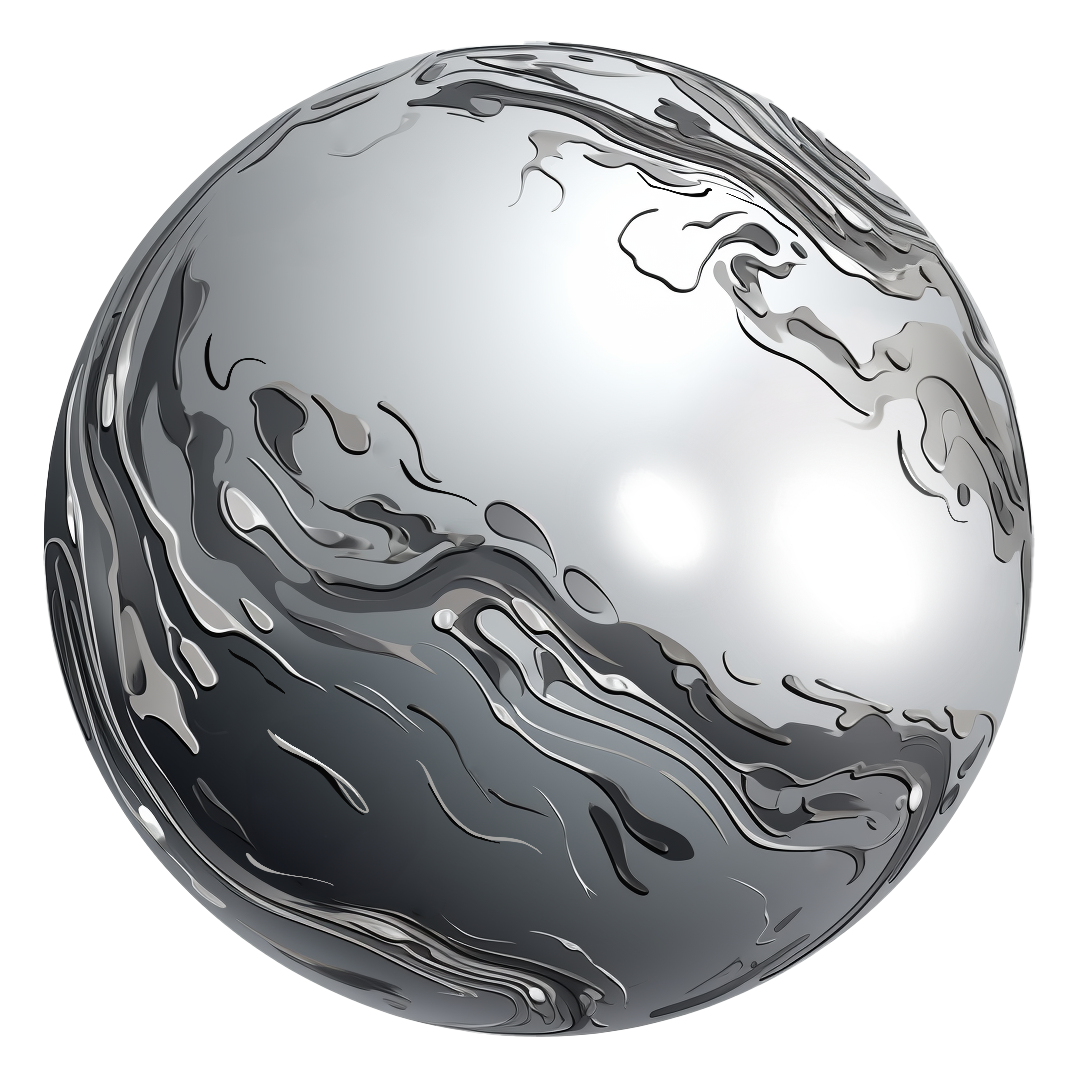
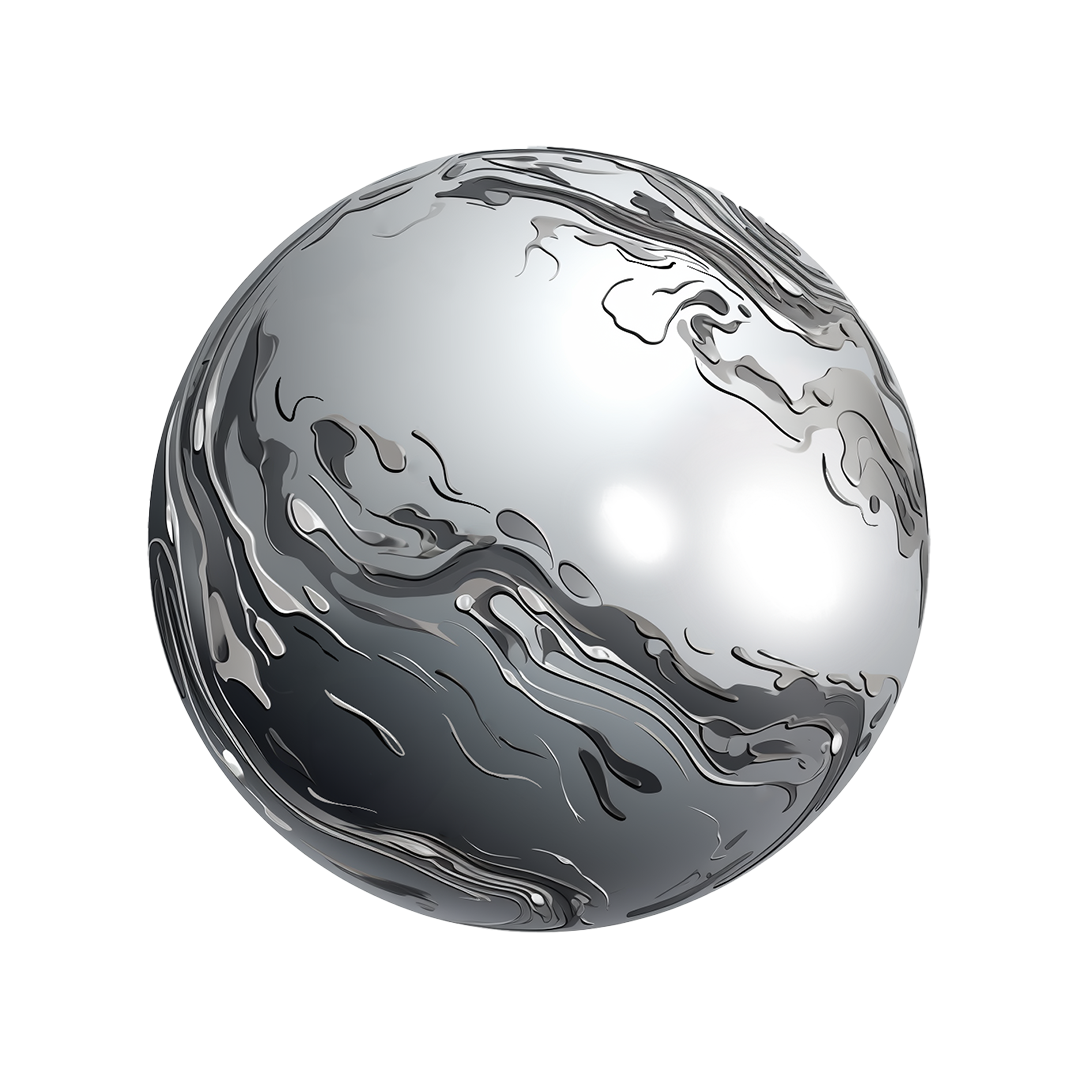
improve planets + cleanup

diff --git a/remotion/EndScene/LandingRocket.tsx b/remotion/EndScene/LandingRocket.tsx
@@ -21,23 +21,23 @@ export const LandingRocket: React.FC<{
 
   const finalOffset = useMemo(() => {
     if (planetType === "Ice") {
-      return 500;
+      return 450;
     }
 
     if (planetType === "Gold") {
-      return 500;
+      return 450;
     }
 
     if (planetType === "Leafy") {
-      return 490;
+      return 450;
     }
 
     if (planetType === "Fire") {
-      return 510;
+      return 450;
     }
 
     if (planetType === "Silver") {
-      return 430;
+      return 450;
     }
 
     return 450;
@@ -52,46 +52,66 @@ export const LandingRocket: React.FC<{
   const height = interpolate(frame, [30, 70], [400, 30]);
   const marginTop = height / 2;
 
+  const shadowTop = interpolate(frame, [0, 50], [190, 0], {
+    extrapolateRight: "clamp",
+  });
+
+  const shadow = interpolate(frame, [0, 50], [0, 50], {
+    extrapolateRight: "clamp",
+  });
+
   return (
-    <AbsoluteFill
-      style={{
-        position: "absolute",
-        alignItems: "center",
-        justifyContent: "center",
-        marginTop: rocketOffset,
-        transform: "scale(0.7)",
-      }}
-    >
+    <>
       <AbsoluteFill
         style={{
-          justifyContent: "center",
-          alignItems: "center",
+          backgroundColor: "rgba(0,0,0,0.4)",
+          height: shadow * 1.5,
+          width: shadow * 6,
+          top: 800 - shadowTop,
+          left: 545 - shadow * 3,
+          borderRadius: "50%",
         }}
-      >
-        <OffthreadVideo
-          style={{
-            width: height,
-            height: 100,
-            objectFit: "fill",
-            transform: `rotate(-90deg)`,
-            marginTop: -500 + marginTop,
-            marginLeft: 20,
-          }}
-          startFrom={110}
-          muted
-          transparent
-          src={getFlame(rocket)}
-        />
-      </AbsoluteFill>
-      <div
+      />
+      <AbsoluteFill
         style={{
-          width: 400,
-          position: "relative",
-          top: -600,
+          position: "absolute",
+          alignItems: "center",
+          justifyContent: "center",
+          marginTop: rocketOffset,
+          transform: "scale(0.7)",
         }}
       >
-        <RocketSide rocket={rocket} />
-      </div>
-    </AbsoluteFill>
+        <AbsoluteFill
+          style={{
+            justifyContent: "center",
+            alignItems: "center",
+          }}
+        >
+          <OffthreadVideo
+            style={{
+              width: height,
+              height: 100,
+              objectFit: "fill",
+              transform: `rotate(-90deg)`,
+              marginTop: -500 + marginTop,
+              marginLeft: 20,
+            }}
+            startFrom={110}
+            muted
+            transparent
+            src={getFlame(rocket)}
+          />
+        </AbsoluteFill>
+        <div
+          style={{
+            width: 400,
+            position: "relative",
+            top: -600,
+          }}
+        >
+          <RocketSide rocket={rocket} />
+        </div>
+      </AbsoluteFill>
+    </>
   );
 };

diff --git a/remotion/Contributions/index.tsx b/remotion/Contributions/index.tsx
@@ -82,7 +82,7 @@ const Dot: React.FC<{
   if (frame < TRANSITION_GLOW) {
     let f = (targetColumn - col) / (COLUMNS / 3);
 
-    f = f < 0 ? 0 : f > 1 ? 1 : f;
+    f = Math.min(...[Math.abs(f), 1]);
 
     top = col >= targetColumn ? mapRowToMove[row] : (1 - f) * mapRowToMove[row];
     opacity = col >= targetColumn ? 0 : opacity;

diff --git a/remotion/Root.tsx b/remotion/Root.tsx
@@ -555,7 +555,7 @@ export const RemotionRoot: React.FC = () => {
           },
           showHelperLine: false,
           login: "iampato",
-          planet: "Fire" as const,
+          planet: "Silver" as const,
           starsGiven: 50,
           issuesClosed: 200,
           issuesOpened: 200,

diff --git a/remotion/Contributions/PlanetEntrance.tsx b/remotion/Contributions/PlanetEntrance.tsx
@@ -12,7 +12,7 @@ export const PlanetEntrance: React.FC<{
   const planetSize = interpolate(
     frame + (startingFrame || 0),
     [80, 180],
-    [0, 1000],
+    [0, 1200],
     {
       extrapolateRight: "clamp",
       easing: Easing.inOut((t) => t),
